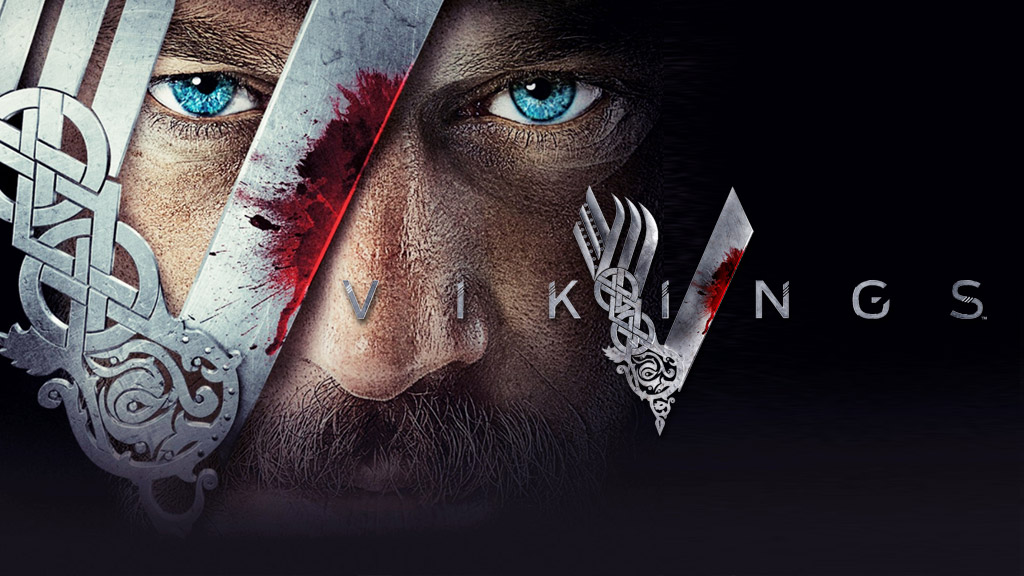
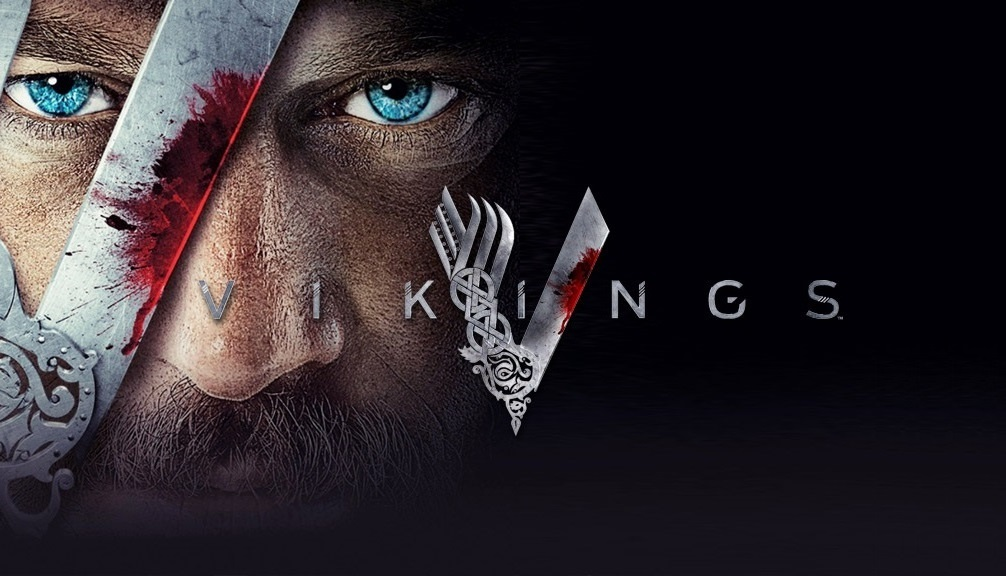
Jag fixade så saker scalade bättre

diff --git a/site/css/style.css b/site/css/style.css
@@ -52,10 +52,9 @@ h2 {
 }
 
 .jarallax {
-    background-size: auto;
     background-size: cover;
     background-repeat: no-repeat;
-    height: 790px;
+    height: 95vh;
     width: 100vw;
     z-index: 2;
 }
@@ -87,7 +86,7 @@ h2 {
   justify-content: center;
   color: white;
   font-size: 50px;
-  margin-top: 42px;
+  margin-top: 5vh;
   margin-bottom: 10px;
   width: 90vw;
   padding-top: 30px;
@@ -122,9 +121,9 @@ h2 {
 
 .background {
   background-image: url("../img/background3.jpg");
-  background-size: cover;
+  background-size: contain;
   background-repeat: no-repeat;
-  height: 500px;
+  height: 32.5vw;
   width: 100vw;
 }
 
